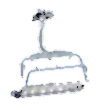
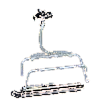
Cover: back to the original chair cutout, only 1px bar gaps filled

Changed region(s): [[0.0882, 0.0818, 0.8824, 0.9], [0.1765, 0.4909, 0.3529, 0.7091], [0.3824, 0.5182, 0.4118, 0.5455]]

diff --git a/assets/cover-anim/cover-anim.js b/assets/cover-anim/cover-anim.js
@@ -15,7 +15,7 @@
   function dpoly(c, x) { return (3 * c[0] * x + 2 * c[1]) * x + c[2]; }
 
   function loadScene() {
-    if (!scenePromise) scenePromise = fetch(BASE + 'scene.json?v=11').then(function (r) { if (!r.ok) throw 0; return r.json(); })
+    if (!scenePromise) scenePromise = fetch(BASE + 'scene.json?v=12').then(function (r) { if (!r.ok) throw 0; return r.json(); })
       .then(function (S) { SCENE = buildLines(S); return SCENE; });
     return scenePromise;
   }
@@ -67,7 +67,7 @@
     var TOPX = S.TOPX || 0, HE = S.HE || S.H, EX = S.EX || 0, WE = S.WE || S.W;
     var stage = el('div', 'position:absolute;left:0;top:0;transform-origin:0 0;will-change:transform;width:' + WE + 'px;height:' + HE + 'px;');
     var imgs = [];
-    function img(src, css, w, h) { var i = el('img', ABS + (css || ''), { alt: '', src: BASE + src + '?v=11', decoding: 'async' }); if (w) { i.width = w; i.height = h; } imgs.push(i); return i; }
+    function img(src, css, w, h) { var i = el('img', ABS + (css || ''), { alt: '', src: BASE + src + '?v=12', decoding: 'async' }); if (w) { i.width = w; i.height = h; } imgs.push(i); return i; }
     // plate + drifting sky are in extended-canvas coords (photo starts at y=TOPX)
     stage.appendChild(img('cover-alps-plate.jpg', '', WE, HE));
     var sky = img('sky-drift.webp', 'left:' + (-S.PAD) + 'px;will-change:transform;');

diff --git a/about.html b/about.html
@@ -4,7 +4,7 @@
 <meta charset="utf-8">
 <meta name="viewport" content="width=device-width, initial-scale=1">
 <script src="./support.js"></script>
-<script src="./assets/cover-anim/cover-anim.js?v=11" defer></script>
+<script src="./assets/cover-anim/cover-anim.js?v=12" defer></script>
 <script>
 /* Lineage portraits: preload right away on /lineage, otherwise warm the cache when the browser is idle */
 (function () {

diff --git a/index.html b/index.html
@@ -4,7 +4,7 @@
 <meta charset="utf-8">
 <meta name="viewport" content="width=device-width, initial-scale=1">
 <script src="./support.js"></script>
-<script src="./assets/cover-anim/cover-anim.js?v=11" defer></script>
+<script src="./assets/cover-anim/cover-anim.js?v=12" defer></script>
 <script>
 /* Lineage portraits: preload right away on /lineage, otherwise warm the cache when the browser is idle */
 (function () {

diff --git a/lineage.html b/lineage.html
@@ -4,7 +4,7 @@
 <meta charset="utf-8">
 <meta name="viewport" content="width=device-width, initial-scale=1">
 <script src="./support.js"></script>
-<script src="./assets/cover-anim/cover-anim.js?v=11" defer></script>
+<script src="./assets/cover-anim/cover-anim.js?v=12" defer></script>
 <script>
 /* Lineage portraits: preload right away on /lineage, otherwise warm the cache when the browser is idle */
 (function () {

diff --git a/portfolio.html b/portfolio.html
@@ -4,7 +4,7 @@
 <meta charset="utf-8">
 <meta name="viewport" content="width=device-width, initial-scale=1">
 <script src="./support.js"></script>
-<script src="./assets/cover-anim/cover-anim.js?v=11" defer></script>
+<script src="./assets/cover-anim/cover-anim.js?v=12" defer></script>
 <script>
 /* Lineage portraits: preload right away on /lineage, otherwise warm the cache when the browser is idle */
 (function () {
